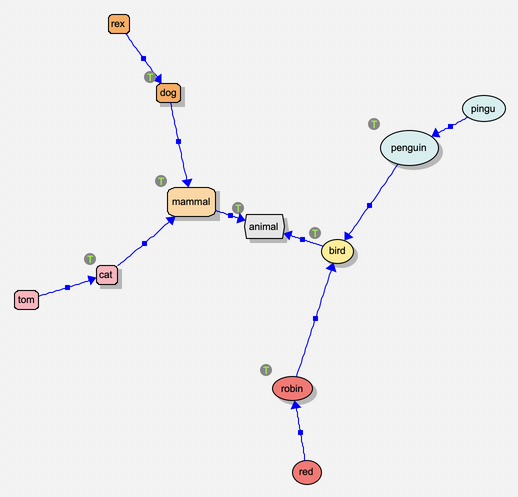
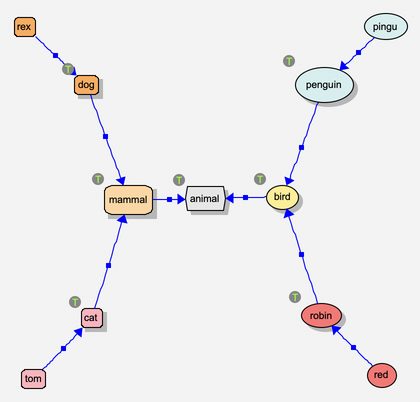
Radial layout: each subtree out beyond its parent, not spread round the root
A node's children used to share out its whole wedge, which is as wide as
its share of the leaves: a big subtree two rings out (eg: a hub) had its
children spread nearly all round the root, with long relations back to
it. Now each subtree's wedge is as wide as it needs at its widest depth,
centred on its parent, sharing only what's spare there and no wider (with
its siblings) than a half-plane; the circles beyond move out until it fits.

diff --git a/src/sn/view/graphics/balloonLayout.py b/src/sn/view/graphics/balloonLayout.py
@@ -78,6 +78,10 @@ PARENT_GAP = math.pi / 2
 '''The wedge (radians) a balloon's node keeps clear of its children, toward
 its parent: where the relation from its parent comes in.'''
 
+RADIAL_SPREAD = math.pi
+'''The widest a node's children's wedges may be, side by side, in the radial layout
+(see *radialPositions()*): the circles beyond it are moved out until they fit.'''
+
 ROW_LENGTH = 1600.0
 '''The longest a row of balloons (or radial trees, or groups of hubs) is,
 unless one's longer: they're put one after another along it, then in another
@@ -308,12 +312,19 @@ def radialPositions(roots:list[K], children:Mapping[K, Sequence[K]], sizes:Mappi
                     spacing:float=20.0, edgeRoom:Optional[Mapping[K, float]]=None) -> tuple[dict[K, tuple[float, float]], list[tuple[K, list[K], float]]]:
   '''
   Lay out some trees radially, each on its own: its root in the middle, each
-  depth on a circle round it, and each node's subtree in a wedge (its
-  children dividing it, from the top, clockwise), as wide as its leaves need
-  (their circles, *spacing* apart), each node in the middle of its own. Each
-  circle's as small as it can be with no node on another: far enough out
+  depth on a circle round it, and each node's subtree in a wedge just as wide
+  as it needs -- the most, at any depth, that its nodes there take up (their
+  circles, *spacing* apart), seen from the middle -- each node in the middle
+  of its own, its children's wedges side by side (in order, clockwise) and
+  centred on it, sharing out what's spare in its wedge -- but over no more
+  than *RADIAL_SPREAD*: so each subtree stays close to the line out from the
+  middle through its root, however big it is, rather than being spread
+  round all the room its parent has. (The root's children go all round,
+  from the top.) Each circle's as small as it can be: far enough out
   from the one before for the nodes on both (and *edgeRoom*), and for each
-  node on it to fit in its wedge.
+  node's children to fit in front of it (in the angle, seen from the middle,
+  between the tangents to its circle where they meet the next) -- and all of
+  them further out, in proportion, if the wedges wouldn't otherwise fit round.
 
   :param roots: The trees' roots.
   :type roots: list[K]
@@ -343,17 +354,6 @@ def radialPositions(roots:list[K], children:Mapping[K, Sequence[K]], sizes:Mappi
       for k in kids[n]:
         depth[k] = depth[n] + 1
         order.append(k)
-    weight:dict[K, float] = {}
-    for n in reversed(order):
-      weight[n] = max(2 * radius(sizes[n]) + spacing, sum(weight[k] for k in kids[n]))
-    span, start, angle = {root: 2 * math.pi}, {root: -math.pi / 2}, {root: 0.0}
-    for n in order:
-      total = sum(weight[k] for k in kids[n])
-      s = start[n]
-      for k in kids[n]:
-        span[k] = span[n] * weight[k] / total
-        start[k], angle[k] = s, s + span[k] / 2
-        s += span[k]
     deepest = max(depth.values())
     maxR, maxRoom = [0.0] * (deepest + 1), [0.0] * (deepest + 1)
     for n, d in depth.items():
@@ -362,11 +362,46 @@ def radialPositions(roots:list[K], children:Mapping[K, Sequence[K]], sizes:Mappi
         maxRoom[d] = max(maxRoom[d], room(n))
     rho = [0.0]
     for d in range(1, deepest + 1):
-      need = rho[-1] + maxR[d - 1] + maxR[d] + maxRoom[d]
-      for n in order:
-        if depth[n] == d: # (its circle in its wedge)
-          need = max(need, (radius(sizes[n]) + spacing / 2) / math.sin(min(span[n], math.pi) / 2))
-      rho.append(need)
+      rho.append(max(rho[-1] + maxR[d - 1] + maxR[d] + maxRoom[d], maxR[d] + spacing / 2))
+    # (the angle each node's circle takes up, seen from the middle; each subtree's: the most at any depth)
+    own = lambda n: 2 * math.asin(min(1.0, (radius(sizes[n]) + spacing / 2) / rho[depth[n]]))
+    def needs() -> dict[K, float]:
+      need:dict[K, float] = {}
+      for n in reversed(order):
+        need[n] = max(own(n) if depth[n] else 0.0, sum(need[k] for k in kids[n]))
+      return need
+    atDepth:list[list[K]] = [[] for _ in range(deepest + 1)]
+    for n in order:
+      if kids[n]:
+        atDepth[depth[n]].append(n)
+    need = needs()
+    for _ in range(1000):
+      if need[root] > 2 * math.pi * (1 + 1e-9): # (too much for all round: every circle further out -- the angles shrink at least as much)
+        f = need[root] / (2 * math.pi) * (1 + 1e-6)
+        rho = [r * f for r in rho]
+        need = needs()
+        continue
+      # (each node's children in front of it: within the angle seen from the middle where the next circle is
+      # beyond the tangents to its own circle -- else the next circle out, and those beyond it, further out)
+      grow = next((d for d in range(1, deepest) for n in atDepth[d]
+                   if sum(need[k] for k in kids[n]) > RADIAL_SPREAD * (1 + 1e-9)), None)
+      if grow is None:
+        break
+      step = 0.1 * rho[grow + 1]
+      rho = rho[:grow + 1] + [r + step for r in rho[grow + 1:]]
+      need = needs()
+    angle, span = {root: 0.0}, {root: 2 * math.pi}
+    for n in order: # (each node's children side by side, centred on it, sharing out what's spare in its wedge)
+      if not kids[n]:
+        continue
+      total = sum(need[k] for k in kids[n])
+      room = span[n] if n is root else max(total, min(span[n], RADIAL_SPREAD))
+      extra = (room - total) / len(kids[n])
+      s = -math.pi / 2 if n is root else angle[n] - room / 2 # (the root's: all round, from the top)
+      for k in kids[n]:
+        span[k] = need[k] + extra
+        angle[k] = s + span[k] / 2
+        s += span[k]
     for n in order:
       p = rho[depth[n]]
       ret[n] = (p * math.cos(angle[n]), p * math.sin(angle[n]))

diff --git a/test/test_view/test_balloonLayout.py b/test/test_view/test_balloonLayout.py
@@ -131,6 +131,23 @@ class Test(unittest.TestCase):
       self.assertEqual(len(pos), n)
       self.assertEqual(overlapping(boxes(pos, sizes)), [], kids)
 
+  def test0750radialSubtreesFollowTheirRadialLine(self):
+    # a big subtree (a, with 30 children) beside a small one: a's children stay out beyond a,
+    # not spread round all the room a's weight would give it
+    sizes = {n: (60, 30) for n in ["r", "a", "b", *range(30)]}
+    kids = {"r": ["a", "b"], "a": list(range(30))}
+    pos, _ = radialPositions(["r"], kids, sizes, spacing=10)
+    turn = lambda p, q: abs((math.atan2(p[1], p[0]) - math.atan2(q[1], q[0]) + math.pi) % (2 * math.pi) - math.pi)
+    for k in range(30):
+      self.assertLess(turn(pos[k], pos["a"]), math.pi / 2)              # on a's side of the middle
+    self.assertLess(turn(pos[0], pos["a"]) - turn(pos[29], pos["a"]), 1e-9) # (centred on a)
+    self.assertEqual(overlapping(boxes(pos, sizes)), [])
+    # a chain: each node straight out beyond its parent
+    kids = {"r": ["a", "b"], "a": ["c"], "c": ["d"]}
+    pos, _ = radialPositions(["r"], kids, self.sizes, spacing=10)
+    for k in "cd":
+      self.assertAlmostEqual(turn(pos[k], pos["a"]), 0.0)
+
   def test0800hubForest(self):
     # two stars (h1: a b c; h2: d e f), their hubs related; x and y related only to each other; z to nothing
     edges = [("h1", "a"), ("h1", "b"), ("h1", "c"), ("h2", "d"), ("h2", "e"), ("h2", "f"), ("h1", "h2"),

diff --git a/sphinx/source/developer/layout.rst b/sphinx/source/developer/layout.rst
@@ -184,7 +184,11 @@ function:
 
 :py:func:`~sn.view.graphics.balloonLayout.radialPositions`
   Each root in the middle, each depth on a circle round it, each subtree in
-  its own wedge.
+  its own wedge: as wide as it needs at its widest depth, centred on its
+  parent, and sharing what's spare of its parent's wedge, but no wider (with
+  its siblings) than ``RADIAL_SPREAD`` (a half-plane) -- the circles beyond
+  are moved out until they fit. So a big subtree stays out beyond its
+  parent, instead of being spread round all the room its weight would get.
 
 :py:func:`~sn.view.graphics.balloonLayout.hubForest` and :py:func:`~sn.view.graphics.balloonLayout.hubPositions`
   For a graph that isn't a tree: in each connected group, the nodes with at

diff --git a/sphinx/source/user/layouts.rst b/sphinx/source/user/layouts.rst
@@ -104,7 +104,8 @@ cycle is left out of the trees (it's still drawn).
    :width: 360px
 
    **radial**, by *isa*: the root in the middle, and each level further out,
-   each subtree in its own wedge.
+   each subtree in its own wedge, out beyond its parent -- however big it is,
+   it keeps to its parent's side, rather than spreading round the root.
 
 Hubs
 ~~~~
